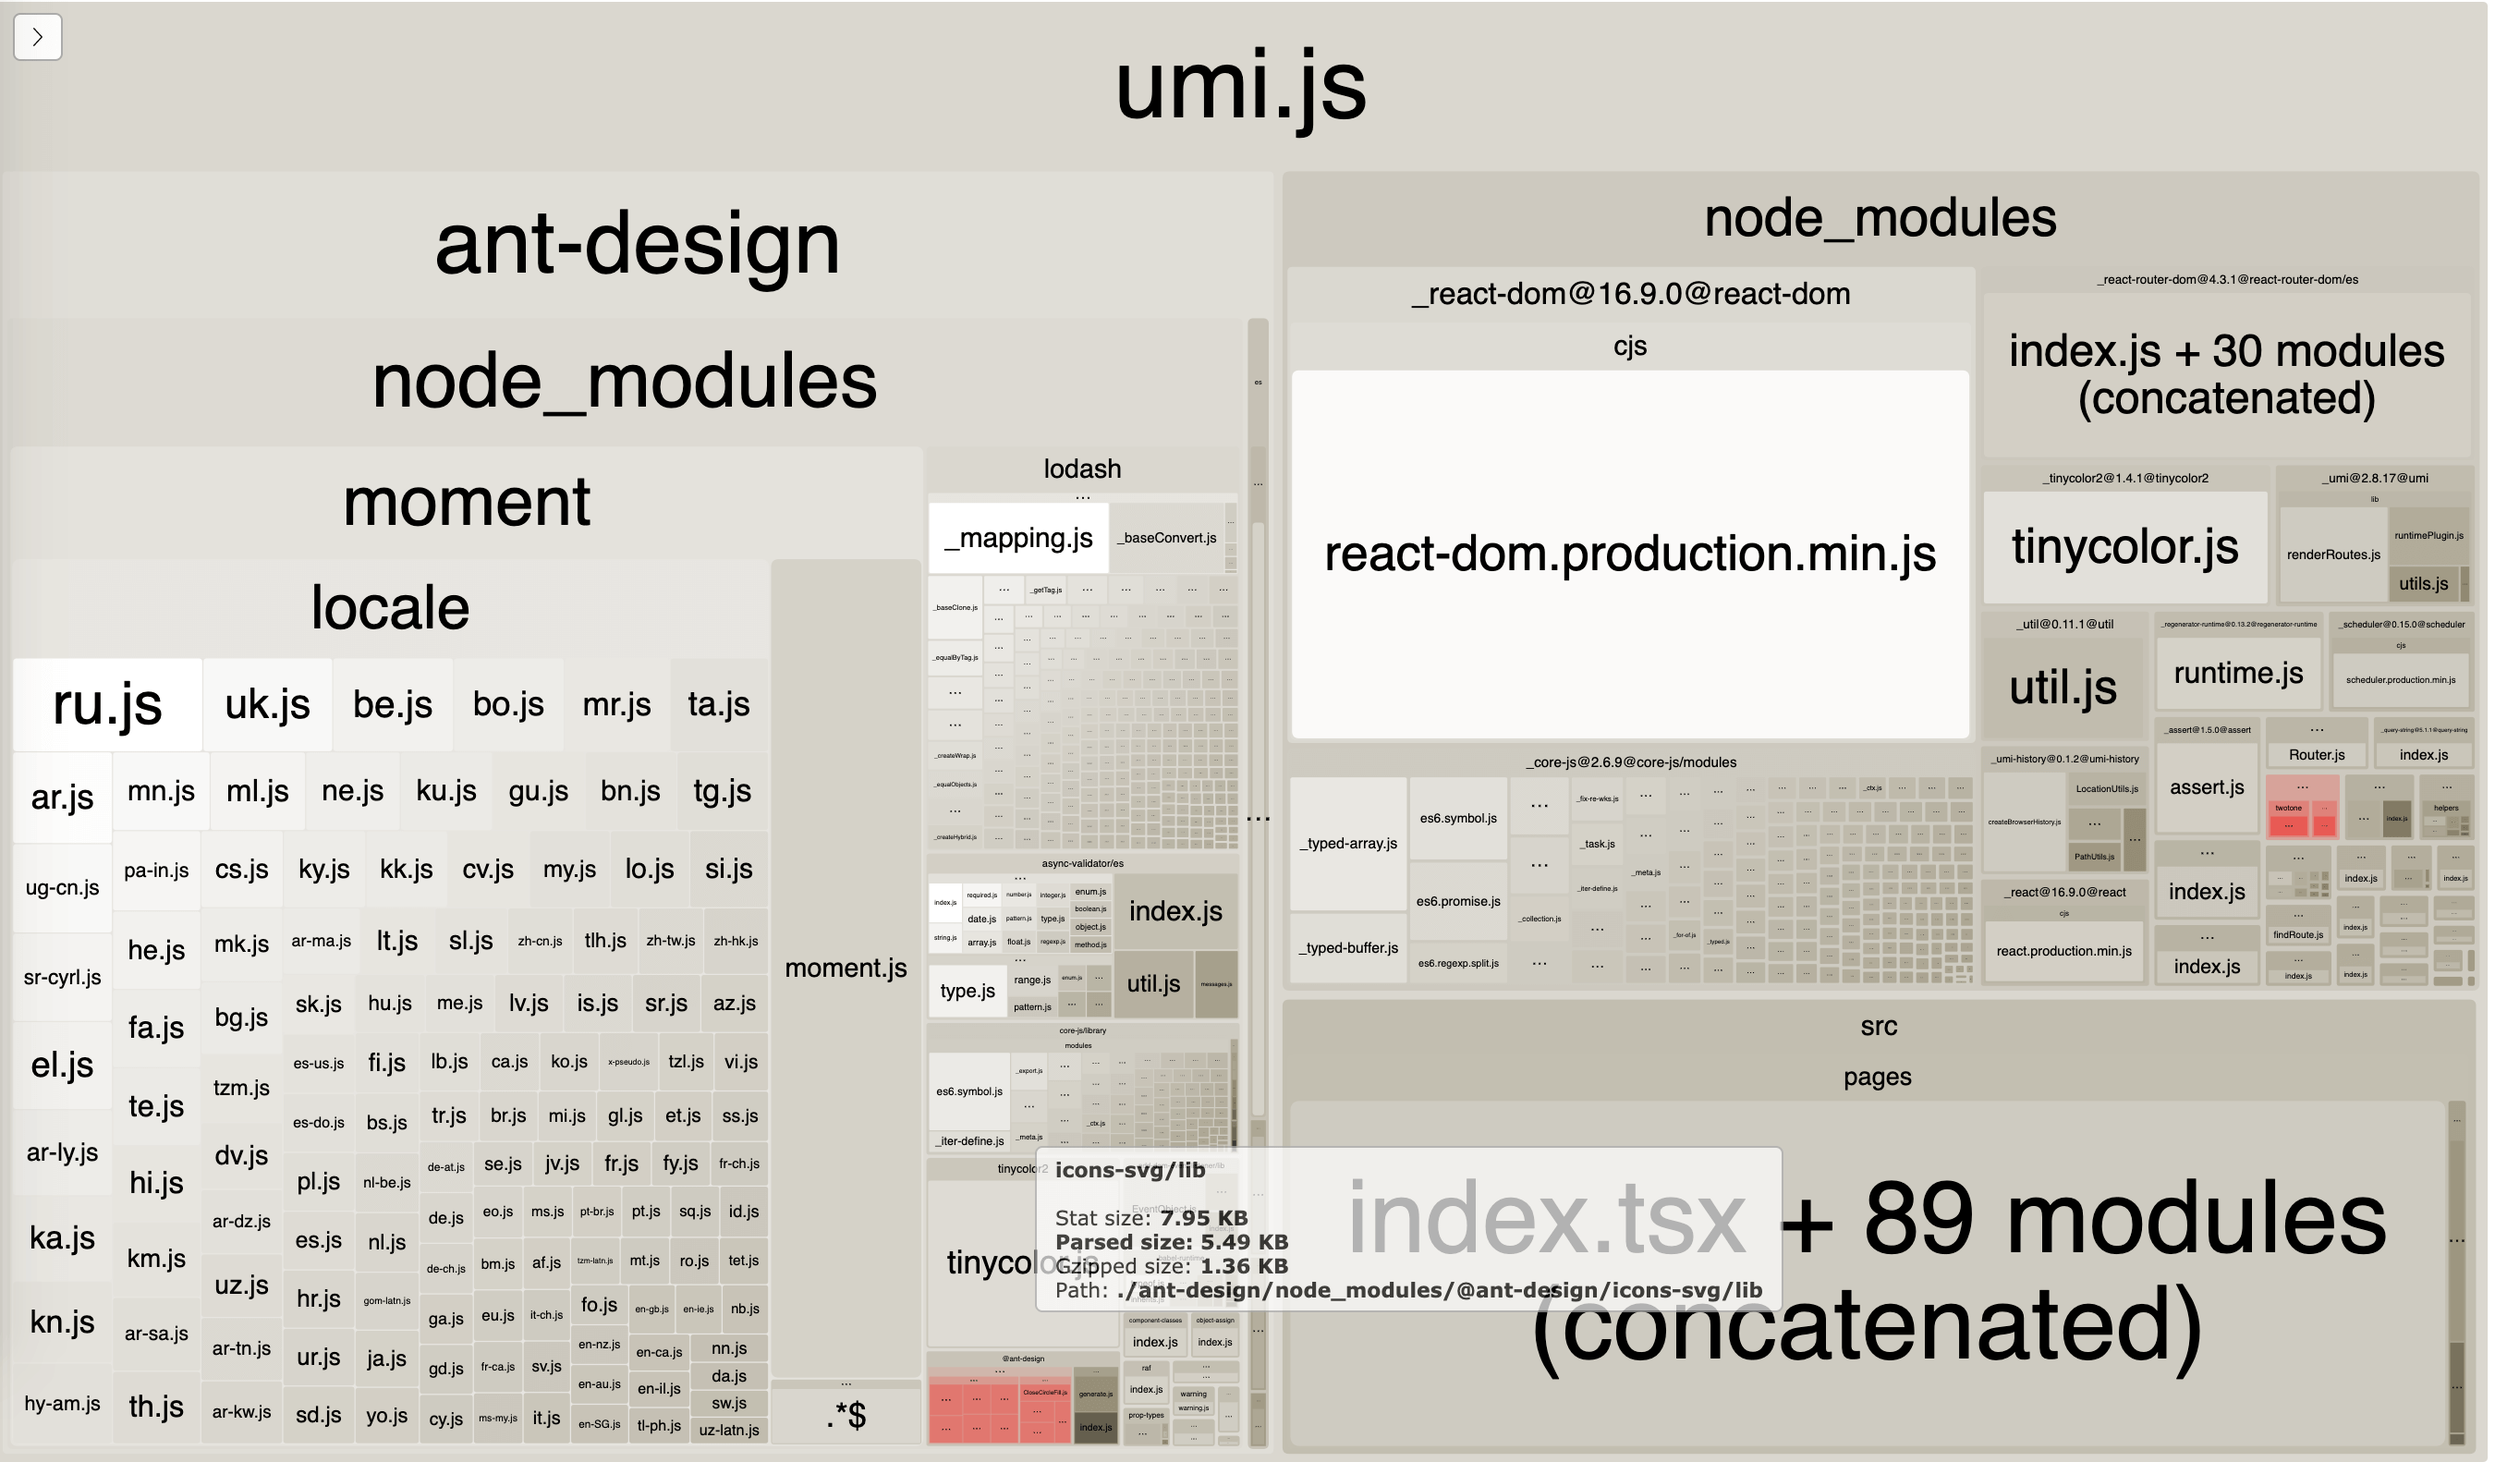
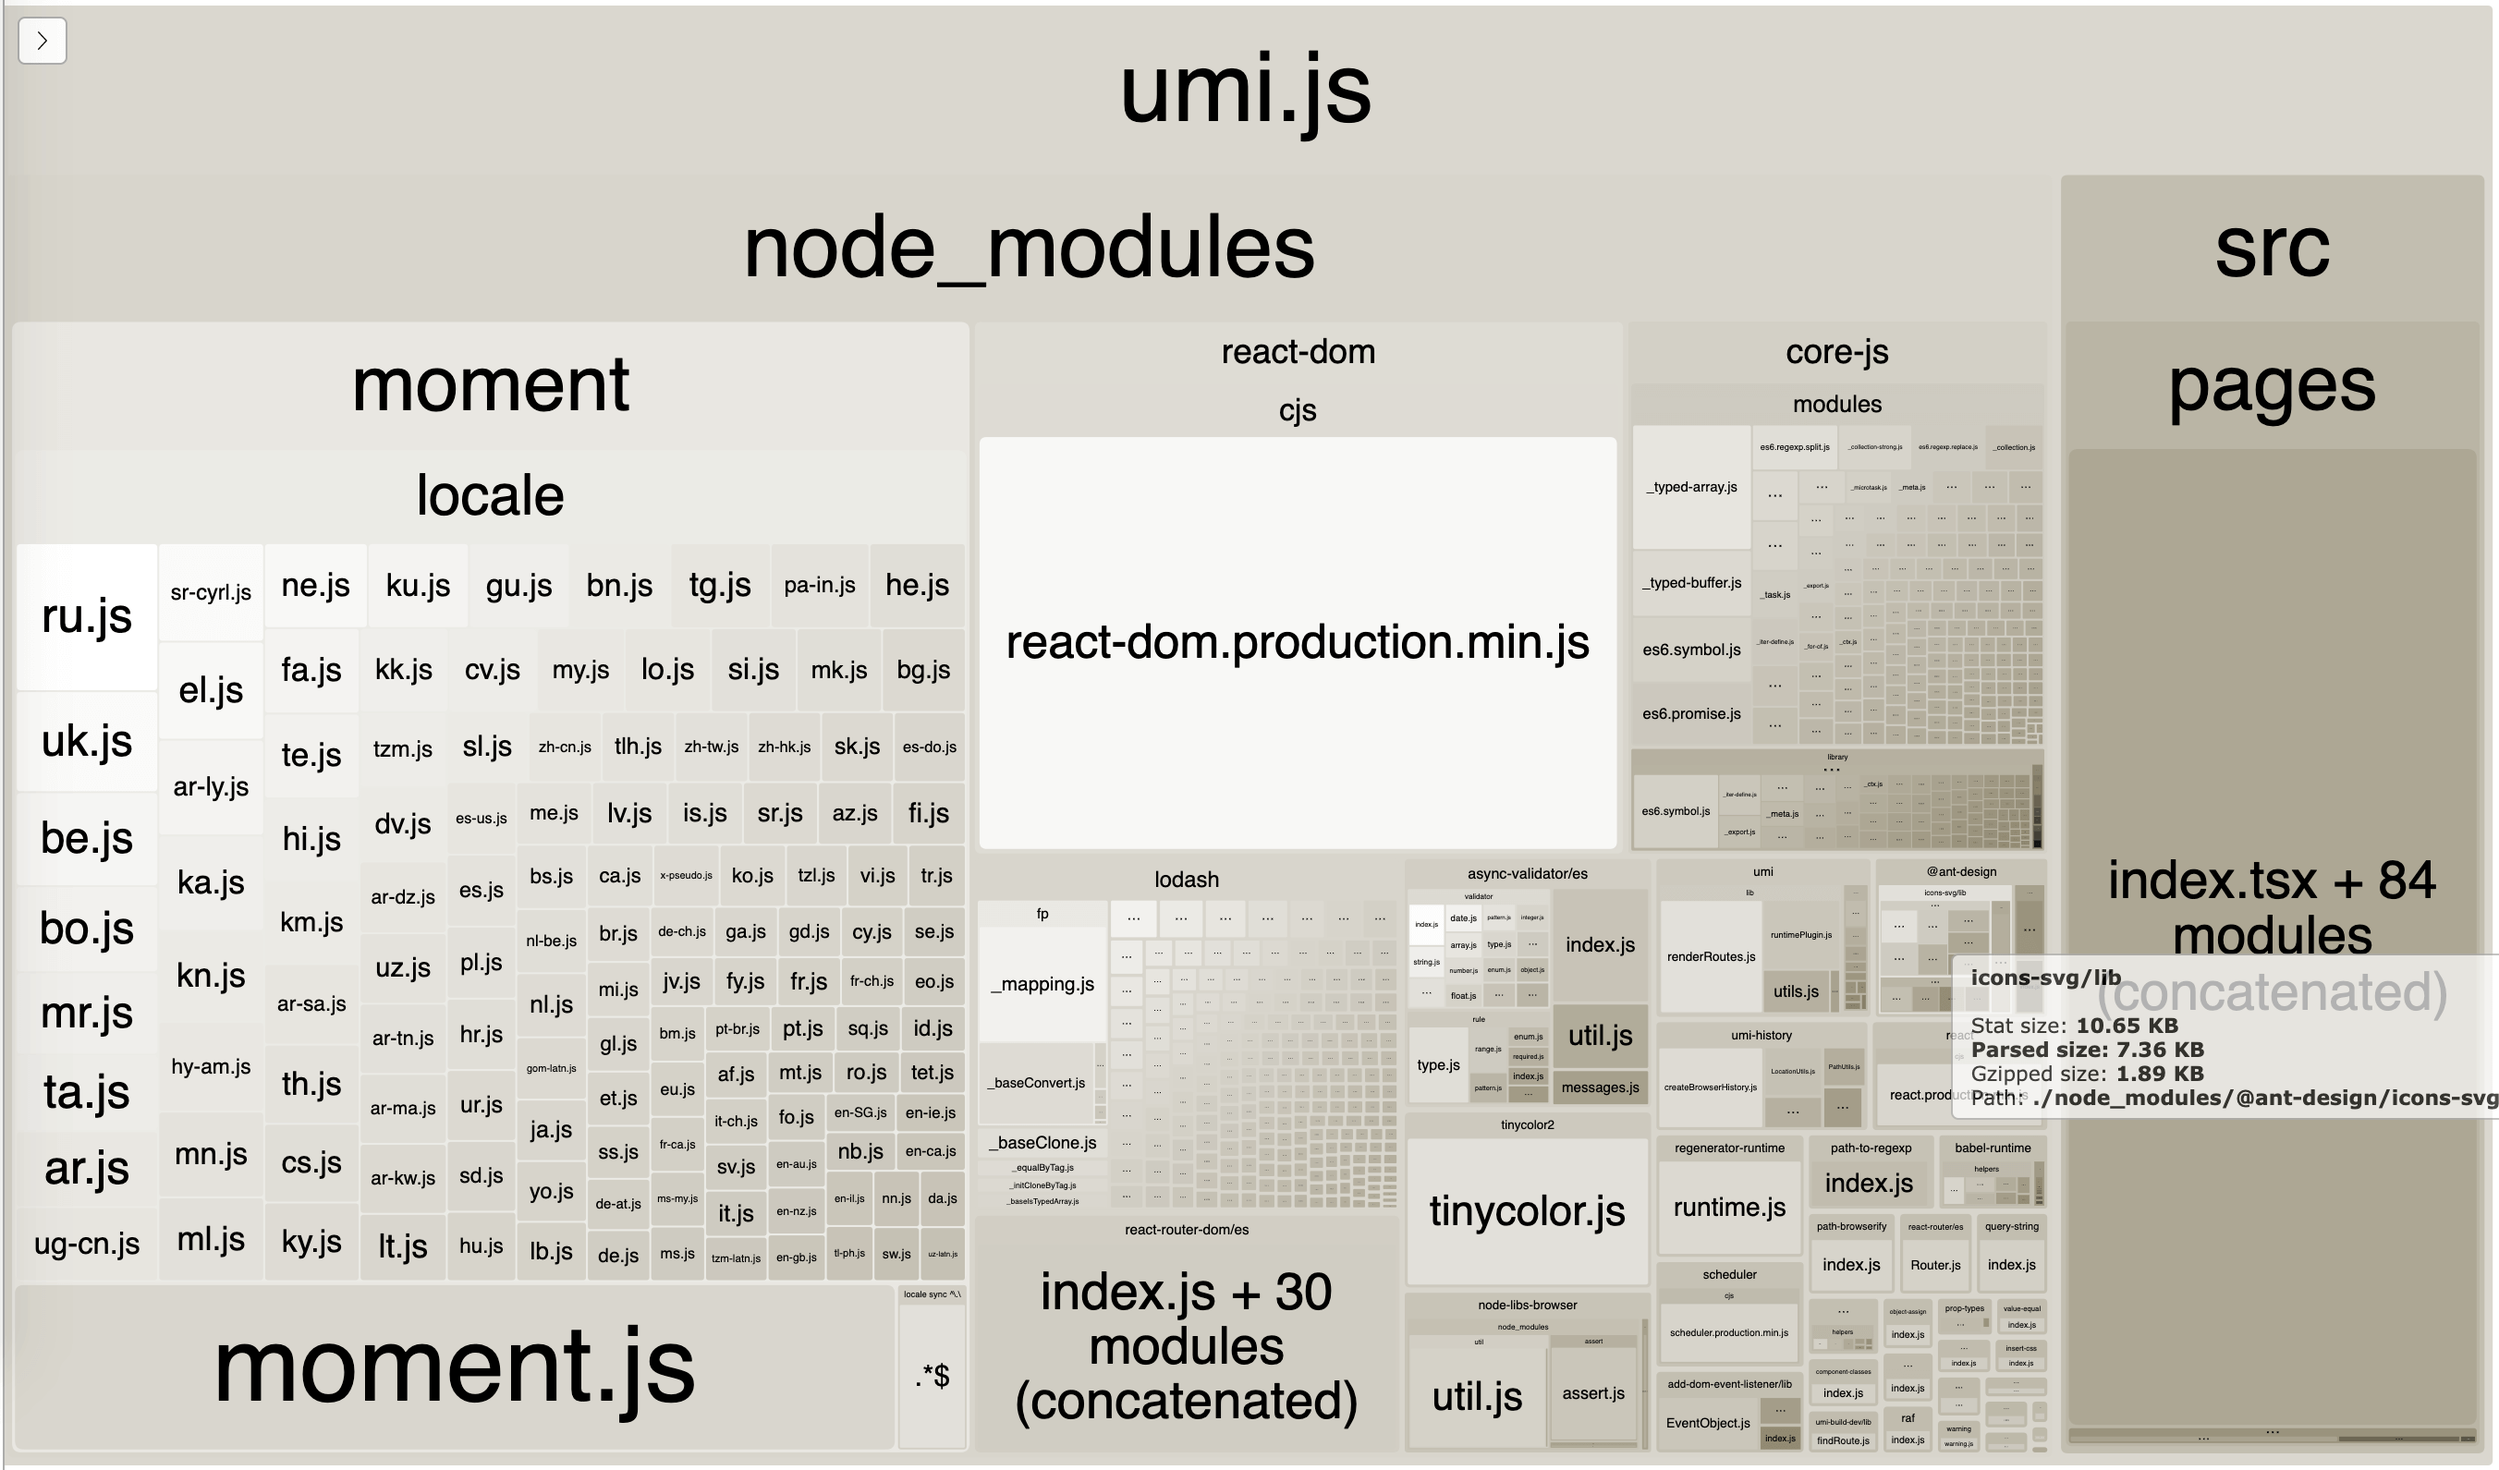
feat: use latest alpha version

diff --git a/readme.md b/readme.md
@@ -3,12 +3,13 @@
 > base on umi create template
 
 ## Before
+> use antd v3
 
 ![webpack bundle](assets/before.png)
 
 ## After
 
-> link antd 4.0.0-.alpha2 locally
+> use antd 4.0.0-.alpha2
 
 ![webpack bundle](assets/after.png)
 
